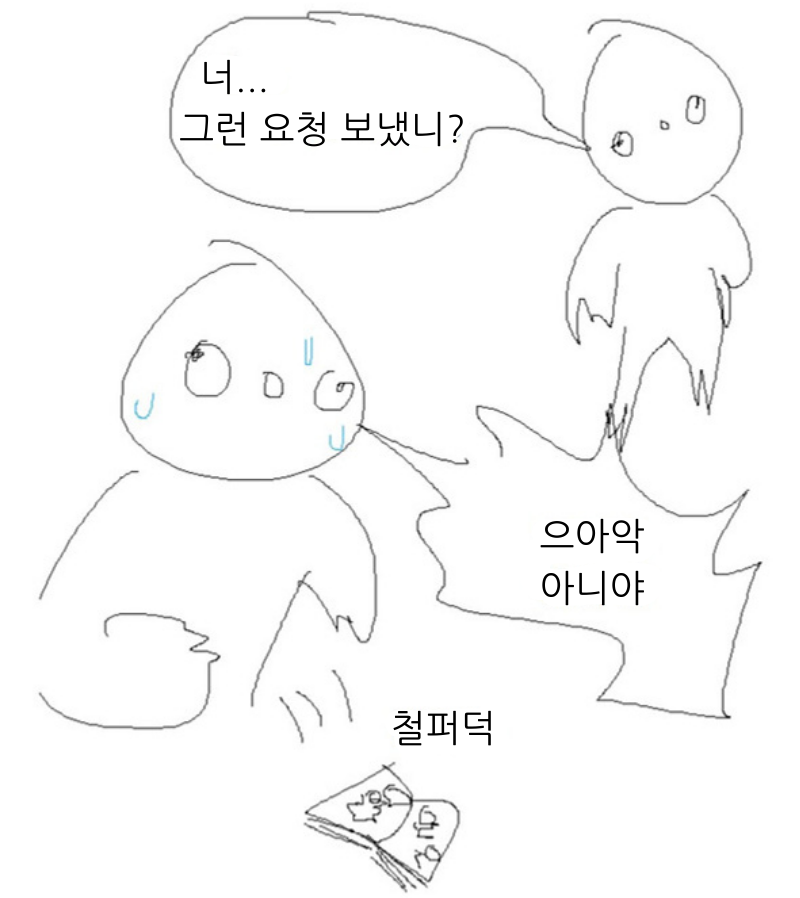
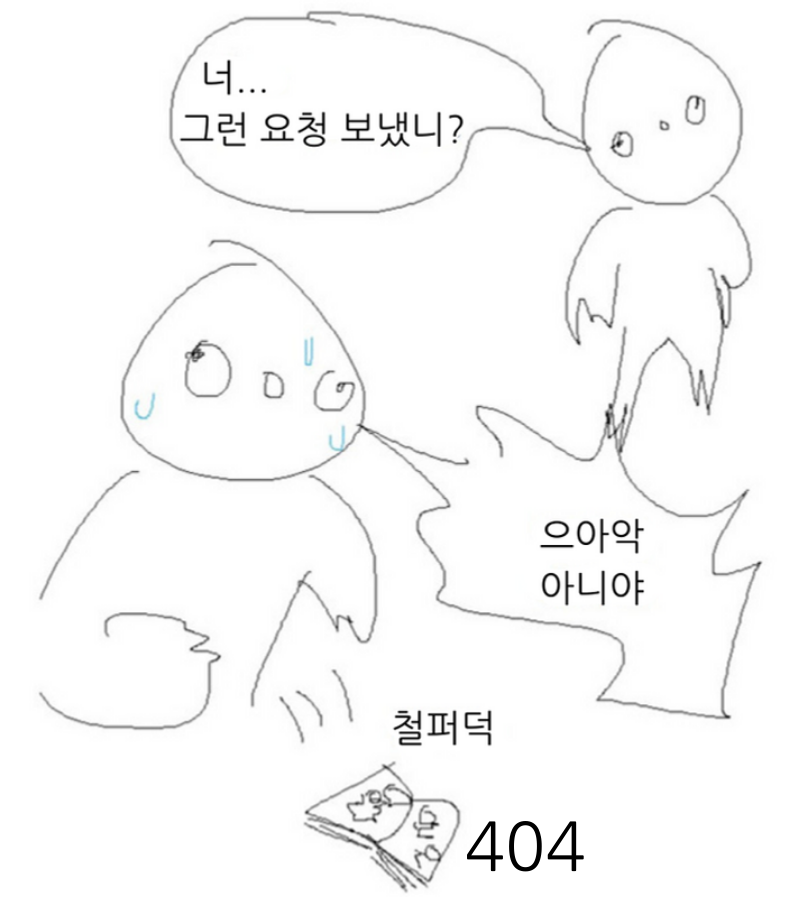
fix : 에러페이지 중간정렬 추가 및 오탈자 수정
에러 중간정렬하게 변경하고 아이콘 변경 및 추가

diff --git a/src/main/resources/templates/error/500.html b/src/main/resources/templates/error/500.html
@@ -3,33 +3,14 @@
 <head>
     <meta charset="UTF-8">
     <title>서버에 문제가 발생했습니다.</title>
-    <style>
-        body {
-            text-align: center;
-            padding: 50px;
-            font-family: "Arial", sans-serif;
-            display: flex;
-            flex-direction: column;
-            align-items: center;
-        }
-
-        img {
-            max-width: 100%;
-            height: auto;
-        }
-
-        .message {
-            font-size: 24px;
-        }
-    </style>
-    <link rel="stylesheet" href="/css/styles.min.css"/>
+    <link rel="stylesheet" href="/css/style.css"/>
 </head>
 <body>
-<img class="position-relative" src="/images/error/404.png" alt="404 이미지"/>
-<p class="message">서버에 문제가 발생했습니다.</p>
+<img src="/images/error/404.png" class="mx-auto d-block" alt="404 이미지"/>
+<p class="text-center message">서버에 문제가 발생했습니다.</p>
 
 <form action="/" method="get">
-    <button type="submit" class="btn btn-info">홈으로 돌아가기</button>
+    <button type="submit" class="btn btn-info mx-auto d-block">홈으로 돌아가기</button>
 </form>
 
 </body>

diff --git a/src/main/resources/templates/error/404.html b/src/main/resources/templates/error/404.html
@@ -3,15 +3,14 @@
 <head>
     <meta charset="UTF-8">
     <title>해당하는 페이지를 찾을 수 없음</title>
-    <link href="https://cdn.jsdelivr.net/npm/bootstrap@5.2.3/dist/css/bootstrap.min.css" rel="stylesheet" integrity="sha384-rbsA2VBKQhggwzxH7pPCaAqO46MgnOM80zW1RWuH61DGLwZJEdK2Kadq2F9CUG65" crossorigin="anonymous">
-    <script src="https://cdn.jsdelivr.net/npm/bootstrap@5.2.3/dist/js/bootstrap.bundle.min.js" integrity="sha384-kenU1KFdBIe4zVF0s0G1M5b4hcpxyD9F7jL+jjXkk+Q2h455rYXK/7HAuoJl+0I4" crossorigin="anonymous"></script>
+    <link rel="stylesheet" href="/css/style.css"/>
 </head>
 <body>
-<img class="position-relative" src="/images/error/404.png" alt="404 이미지"/>
-<p class="message">찾으시는 페이지를 찾을 수 없습니다.</p>
+<img src="/images/error/404.png" class="mx-auto d-block" alt="404 이미지"/>
+<p class="text-center">찾으시는 페이지를 찾을 수 없습니다.</p>
 
 <form action="/" method="get">
-    <button type="submit" class="btn btn-info">홈으로 돌아가기</button>
+    <button type="submit" class="btn btn-info mx-auto d-block">홈으로 돌아가기</button>
 </form>
 
 </body>

diff --git a/src/main/resources/templates/error/403.html b/src/main/resources/templates/error/403.html
@@ -3,14 +3,13 @@
 <head>
     <meta charset="UTF-8">
     <title>거부된 접근입니다.</title>
-    <link href="https://cdn.jsdelivr.net/npm/bootstrap@5.2.3/dist/css/bootstrap.min.css" rel="stylesheet" integrity="sha384-rbsA2VBKQhggwzxH7pPCaAqO46MgnOM80zW1RWuH61DGLwZJEdK2Kadq2F9CUG65" crossorigin="anonymous">
-    <script src="https://cdn.jsdelivr.net/npm/bootstrap@5.2.3/dist/js/bootstrap.bundle.min.js" integrity="sha384-kenU1KFdBIe4zVF0s0G1M5b4hcpxyD9F7jL+jjXkk+Q2h455rYXK/7HAuoJl+0I4" crossorigin="anonymous"></script>
+    <link rel="stylesheet" href="/css/style.css"/>
 </head>
 <body>
-<img src="/images/error/403.png" alt="403 이미지"/>
-<p class="message">거부된 접근입니다.</p>
+<img src="/images/error/403.png" class="mx-auto d-block" alt="403 이미지"/>
+<p class="text-center message">거부된 접근입니다.</p>
 <form action="/" method="get">
-    <button type="submit" class="btn btn-info">홈으로 돌아가기</button>
+    <button type="submit" class="btn btn-info mx-auto d-block">홈으로 돌아가기</button>
 </form>
 </body>
 </html>

diff --git a/src/main/resources/templates/authentication/register.html b/src/main/resources/templates/authentication/register.html
@@ -5,8 +5,8 @@
   <meta charset="utf-8">
   <meta name="viewport" content="width=device-width, initial-scale=1">
   <title>IOTEATIME 회원가입</title>
-  <link rel="shortcut icon" type="image/png" href="/images/logos/favicon.png" />
-  <link rel="stylesheet" href="/css/styles.min.css" />
+  <link rel="shortcut icon" type="image/png" href="/images/logos/only-icon.png" />
+  <link rel="stylesheet" href="/css/style.css" />
 </head>
 
 <body>

diff --git a/src/main/resources/templates/authentication/login.html b/src/main/resources/templates/authentication/login.html
@@ -5,8 +5,8 @@
   <meta charset="utf-8">
   <meta name="viewport" content="width=device-width, initial-scale=1">
   <title>IOTEATIME 로그인</title>
-  <link rel="shortcut icon" type="image/png" href="/images/logos/favicon.png" />
-  <link rel="stylesheet" href="/css/styles.min.css" />
+  <link rel="shortcut icon" type="image/png" href="/images/logos/only-icon.png" />
+  <link rel="stylesheet" href="/css/style.css" />
 </head>
 
 <body>
